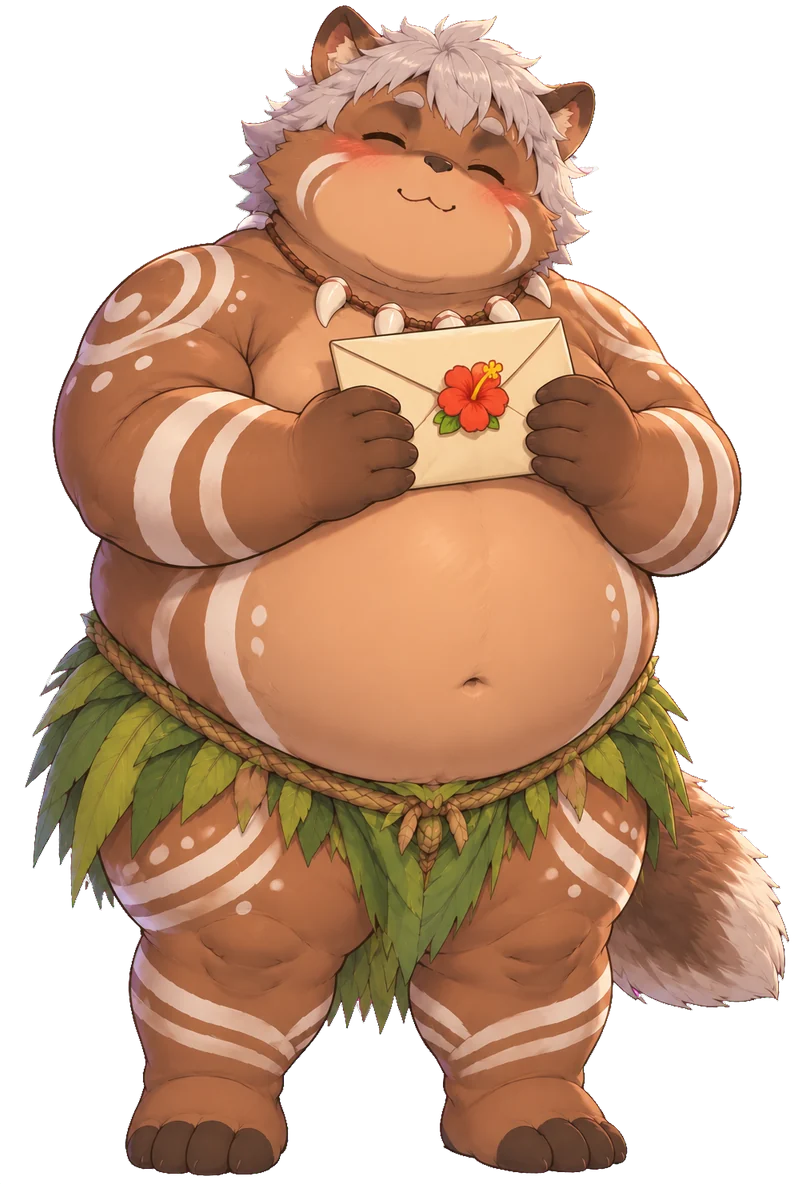
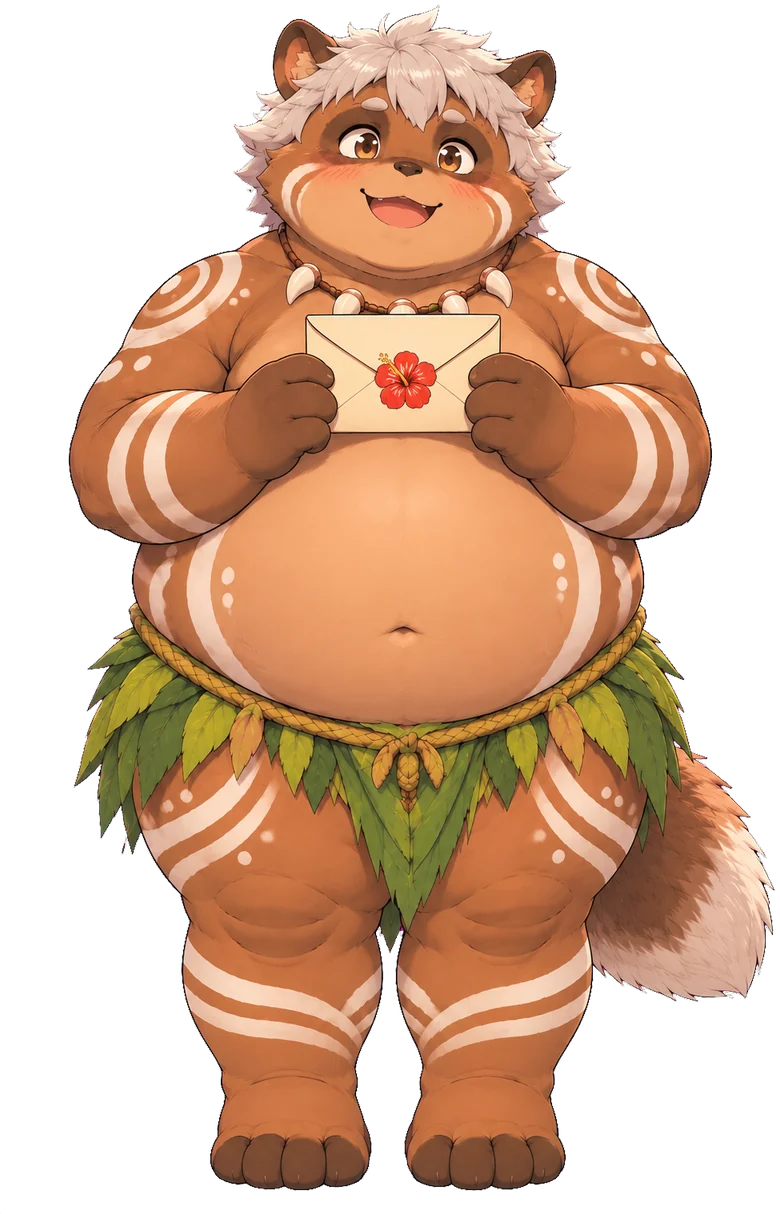
tanukun: お手紙を受け取るタヌくんを描き直し版に（目をあけた顔 → にっこり＋ぴょん＋ハート）
Claude-Session: https://claude.ai/code/session_01DyLyAj3xAeuEW1sG4UPZmn

diff --git a/tanukun/style.css b/tanukun/style.css
@@ -1297,6 +1297,13 @@ body.in-x .mailbox { bottom: calc(var(--x-cover) + 8px); width: 64px; }
 @keyframes u-breath2 { 50% { transform: scale(1.01, 1.018); } }
 #post.sent .p-tanu { animation: p-hug .6s cubic-bezier(.3, 1.6, .5, 1); }
 @keyframes p-hug { 30% { transform: translateY(-12px) scale(.98, 1.03); } }
+/* にっこり（目を閉じた顔に切りかえて）：ぴょんと はねて、ハートがふわっ */
+#post.sent.smile .p-tanu { animation: p-joy .7s cubic-bezier(.3, 1.6, .5, 1), u-breath2 3.2s ease-in-out .7s infinite; }
+@keyframes p-joy { 0% { transform: scale(1.02, .97); } 35% { transform: translateY(-18px) scale(.98, 1.03); } 65% { transform: translateY(0) scale(1.02, .98); } }
+#post .p-heart { position: absolute; z-index: 3; font-size: 26px; font-style: normal; pointer-events: none; transform: translate(-50%, -50%);
+  opacity: 0; animation: p-heart 1.6s ease-out forwards; }
+@keyframes p-heart { 0% { opacity: 0; transform: translate(-50%, -20%) scale(.4); } 20% { opacity: 1; transform: translate(-50%, -60%) scale(1.15); }
+  100% { opacity: 0; transform: translate(-50%, -260%) scale(.9); } }
 #post .p-say { position: absolute; z-index: 3; left: 50%; top: calc(max(14px, env(safe-area-inset-top)) + 54px); transform: translateX(-50%);
   width: max-content; max-width: 86vw; padding: 10px 18px; border-radius: 18px; background: #fff; font-size: 17px; font-weight: 800;
   text-align: center; white-space: pre-line; box-shadow: 0 3px 12px rgba(74, 46, 22, .2); animation: h-sayIn .25s ease-out; }
@@ -1360,4 +1367,4 @@ body.in-x #post .p-tanu { height: 38vh; }
 #post .p-env-stamp { position: absolute; right: 12px; top: 10px; font-size: 30px; transform: rotate(8deg); }
 @keyframes p-fold { from { transform: scaleY(1.8) scaleX(1.3); opacity: .4; } }
 #post .p-envelope.fly { transform: translate(90px, 120px) scale(.35) rotate(12deg); opacity: 0; }
-@media (prefers-reduced-motion: reduce) { #post .p-tanu, #post .p-box.has { animation: none; } }
+@media (prefers-reduced-motion: reduce) { #post .p-tanu, #post.sent.smile .p-tanu, #post .p-box.has { animation: none; } #post .p-heart { display: none; } }

diff --git a/tanukun/post.js b/tanukun/post.js
@@ -23,7 +23,8 @@ window.TanuPost = function (opts) {
   const SRC = {
     down: 'images/post/mailbox_down.webp',
     up: 'images/post/mailbox_up.webp',
-    receive: 'images/post/receive.webp'
+    receive: 'images/post/receive.webp',
+    smile: 'images/post/receive_smile.webp'   // receive の顔だけ「目を閉じて にっこり」（同じ大きさ・同じ位置）
   };
   const MAX = 200;   // お手紙の文字数の上限
 
@@ -224,7 +225,7 @@ window.TanuPost = function (opts) {
   function showMenu() {
     $('.p-back').textContent = T(UI.back);
     $('.p-sheet').hidden = true;
-    root.classList.remove('writing', 'sent');
+    root.classList.remove('writing', 'sent', 'smile');
     const n = unread();
     $('.p-box').src = n ? SRC.up : SRC.down;
     $('.p-box').classList.toggle('has', !!n);
@@ -293,8 +294,33 @@ window.TanuPost = function (opts) {
       say(T(UI.got));
       if (opts.chime) opts.chime();
     }, 1650);
+    // 受け取ってうれしくて、目を閉じて にっこり → ぴょんと はねて、ハートがふわっ
+    setTimeout(() => {
+      if (!root.classList.contains('sent')) return;
+      const t = $('.p-tanu');
+      t.src = SRC.smile;
+      root.classList.add('smile');
+      hearts(t);
+    }, 2500);
     setTimeout(() => { say(T(UI.tomorrow)); }, 3600);
     setTimeout(() => { if (!root.hidden) showMenu(); }, 6200);
+  }
+
+  // タヌくんの頭のまわりに、小さなハートを3つ（にっこりしたとき）
+  function hearts(t) {
+    const sc = $('.p-scene');
+    if (!sc || !t) return;
+    const r = t.getBoundingClientRect(), b = sc.getBoundingClientRect();
+    [[-0.32, 0.12, 0], [0.3, 0.08, 0.18], [0.04, 0.0, 0.36]].forEach(([dx, dy, delay]) => {
+      const h = document.createElement('i');
+      h.className = 'p-heart';
+      h.textContent = '💗';
+      h.style.left = (r.left - b.left + r.width * (0.5 + dx)) + 'px';
+      h.style.top = (r.top - b.top + r.height * dy) + 'px';
+      h.style.animationDelay = delay + 's';
+      sc.appendChild(h);
+      setTimeout(() => h.remove(), 2200);
+    });
   }
 
   // 📬 読む

diff --git a/tanukun/sw.js b/tanukun/sw.js
@@ -20,7 +20,7 @@ const FILES = [
   './images/uranai/shell_coral_c.webp', './images/uranai/shell_pearl_c.webp', './images/uranai/shell_blue_c.webp', './images/uranai/shell_gold_c.webp',
   './images/uranai/shell_coral_o.webp', './images/uranai/shell_pearl_o.webp', './images/uranai/shell_blue_o.webp', './images/uranai/shell_gold_o.webp',
   // タヌくんのポスト（post.js）
-  './images/post/mailbox_down.webp', './images/post/mailbox_up.webp', './images/post/receive.webp',
+  './images/post/mailbox_down.webp', './images/post/mailbox_up.webp', './images/post/receive.webp', './images/post/receive_smile.webp',
   // 時間帯の立ち絵
   './images/time_morning.webp', './images/time_evening.webp', './images/time_night.webp', './images/time_sleep.webp',
   // ぽんぽこリズム（pon/）

diff --git a/tanukun/tools/make_post_art.py b/tanukun/tools/make_post_art.py
@@ -5,15 +5,17 @@
 
 もとの絵（post/art/。ユーザーが描いたもの。どちらもマゼンタ背景）:
     mailbox_src.png … P2 木のポスト（左：旗が下りた／右：赤い旗が上がった）
-    receive_src.png … P1 お手紙を両手で抱えるタヌくん（全身）
+    receive_src.png … P1 お手紙を両手で抱えるタヌくん（全身・目をあけて にこにこ。2026-11-03 夜に描き直し版へ）
+    receive_smile_src.png … 同じポーズで目を閉じて にっこり（顔の所だけ receive に重ねて使う。体は描き直しで少しずれるため）
 つくるもの（images/post/）:
     mailbox_down.webp, mailbox_up.webp … ポスト（同じ倍率。ふだんは down、お返事が届いたら up）
     receive.webp … 背景を抜いたタヌくん（まわりの余白は切る）
+    receive_smile.webp … receive の顔だけ「目を閉じて にっこり」にした絵（receive と同じ大きさ・同じ位置。post.js で切りかえる）
 """
 from pathlib import Path
 import sys
 import numpy as np
-from PIL import Image
+from PIL import Image, ImageDraw, ImageFilter
 
 ROOT = Path(__file__).resolve().parent.parent
 sys.path.insert(0, str(ROOT / 'tools'))
@@ -50,7 +52,20 @@ def main():
     for name, (x0, x1) in [('mailbox_down.webp', (0, mid)), ('mailbox_up.webp', (mid, mb.width))]:
         cols = np.where(a[:, x0:x1].sum(0) > 0)[0]
         save(mb.crop((x0 + cols.min() - 6, top, x0 + cols.max() + 7, bot)), name, scale=0.6)
-    save(trim(key(SRC / 'receive_src.png')), 'receive.webp', scale=0.8)
+    # P1：目をあけた絵と、顔だけ「にっこり」にした絵。2枚とも同じ枠で切る（切りかえても動かないように）
+    rec = key(SRC / 'receive_src.png')
+    a = Image.open(SRC / 'receive_smile_src.png').convert('RGB')
+    b = Image.open(SRC / 'receive_src.png').convert('RGB')
+    m = Image.new('L', a.size, 0)
+    ImageDraw.Draw(m).ellipse((345, 130, 680, 345), fill=255)   # 顔（目・口）のまわり。元の絵 1024×1536 の座標
+    tmp = OUT / '_smile_tmp.png'
+    Image.composite(a, b, m.filter(ImageFilter.GaussianBlur(14))).save(tmp)
+    smile = key(tmp)
+    tmp.unlink()
+    l, t, r, bt = rec.getchannel('A').point(lambda v: 255 if v > 8 else 0).getbbox()
+    box = (max(0, l - 6), max(0, t - 6), min(rec.width, r + 6), min(rec.height, bt + 6))
+    save(rec.crop(box), 'receive.webp', scale=0.8)
+    save(smile.crop(box), 'receive_smile.webp', scale=0.8)
 
 
 if __name__ == '__main__':

diff --git a/tanukun/IDEAS.md b/tanukun/IDEAS.md
@@ -46,6 +46,7 @@
 ## 📮 タヌくんのポスト（お手紙。2026-11-03 作った・v31 に入れる）
 - トップ画面の左下に木のポスト（P2：images/post/mailbox_down・up）。お返事が届くと旗が上がって「1」、ゆらゆら。あいさつも「お手紙、とどいてるよ！ 📮」
 - ポストの画面：✏ お手紙を書く（切手5種・200字・1日1通）→ 封筒になってタヌくんへ → タヌくんが抱える（P1：images/post/receive）「よ、読むね…！」→ 次の日にお返事／📚 お手紙箱
+- **2026-11-03 夜 P1 を描き直し版に**（ユーザー「デフォルメされている」）：目をあけた絵（receive）→ 約1秒後に目を閉じて にっこり（receive_smile。顔だけ重ねた絵）＋ぴょん＋💗3つ。tools/make_post_art.py で作る。にっこりの顔は目のまわりの濃い模様がなく、少し明るい（ユーザーに伝えた）
 - お返事は**短くてかわいい**文から選ぶ（ユーザーの希望）。書いた内容を読んだふりはしない。なかよし10・30・50・100日目とクリアの日は、タヌくんから先にお手紙
 - 書いたお手紙の届け先：config.js の post.form（Google フォーム）。**2026-11-03 夜につないだ**（ユーザーがタヌくん用アカウントで作成。`prefill` に貼るだけ。2026-11-03 夜：app.js の readPrefill が送り先と entry を読む。text・stamp・lang と打ってあればその言葉で、なければ順番で）。空なら、スマホの中にしまうだけ
 - **ⓘ お約束と注意**（2026-11-03 夜・v31）：config.js の rules（15歳以上・AI の絵・記録・数えていること・お手紙・お返事・Google・占い）。「お手紙は作者と、集計を手伝う AI が読む」「名前・住所・学校など書かない」「一人ひとりに返事はできない・送ったら消せない」「こまったら身近な大人や相談窓口にも」。フォームがないときは「どこにも送りません」の版
